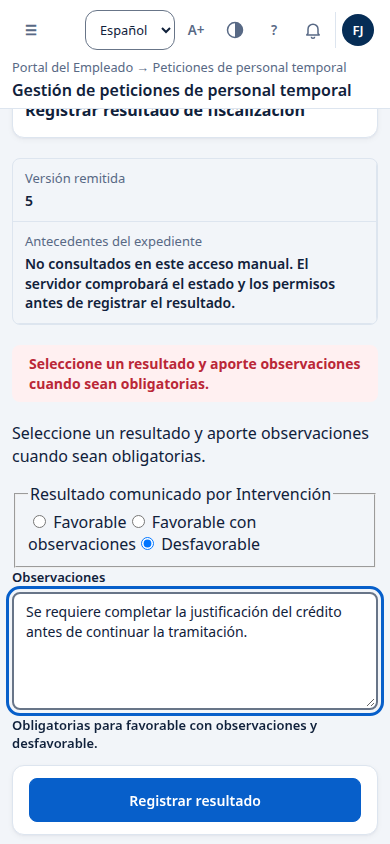
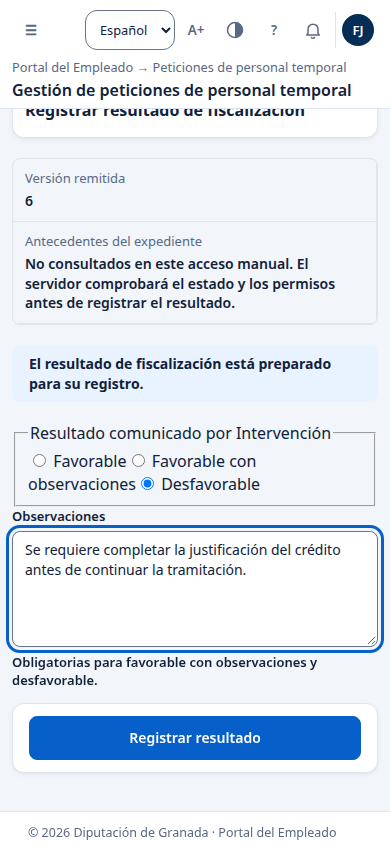
Tarea: F1-82 — Mostrar el formulario sin el aviso residual

Changed region(s): [[0.0, 0.4929, 0.9846, 1.0], [0.0615, 0.4005, 0.9231, 0.4621], [0.0615, 0.2156, 0.0923, 0.2464]]

diff --git a/docs/manuales/intervencion.md b/docs/manuales/intervencion.md
@@ -26,7 +26,7 @@ En «Resultado comunicado por Intervención», marque una opción:
 
 Si intenta registrar las dos últimas opciones sin observaciones, la pantalla pide completarlas y no envía el resultado.
 
-![Resultado desfavorable en móvil: la pantalla exige observaciones y permite escribir el motivo del reparo.](img/intervencion-reparo-movil.png)
+![Resultado desfavorable en móvil: observaciones cumplimentadas y resultado preparado para su registro.](img/intervencion-reparo-movil.png)
 
 ## 3. Confirmar y conservar el justificante
 
